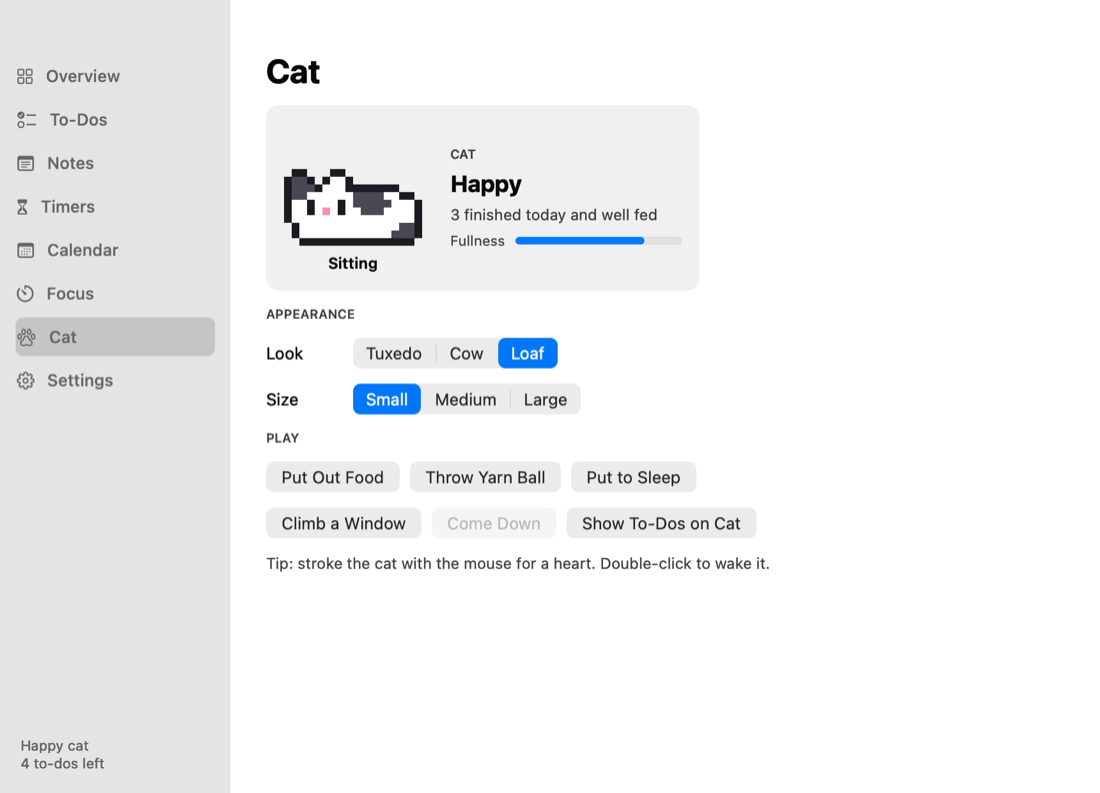
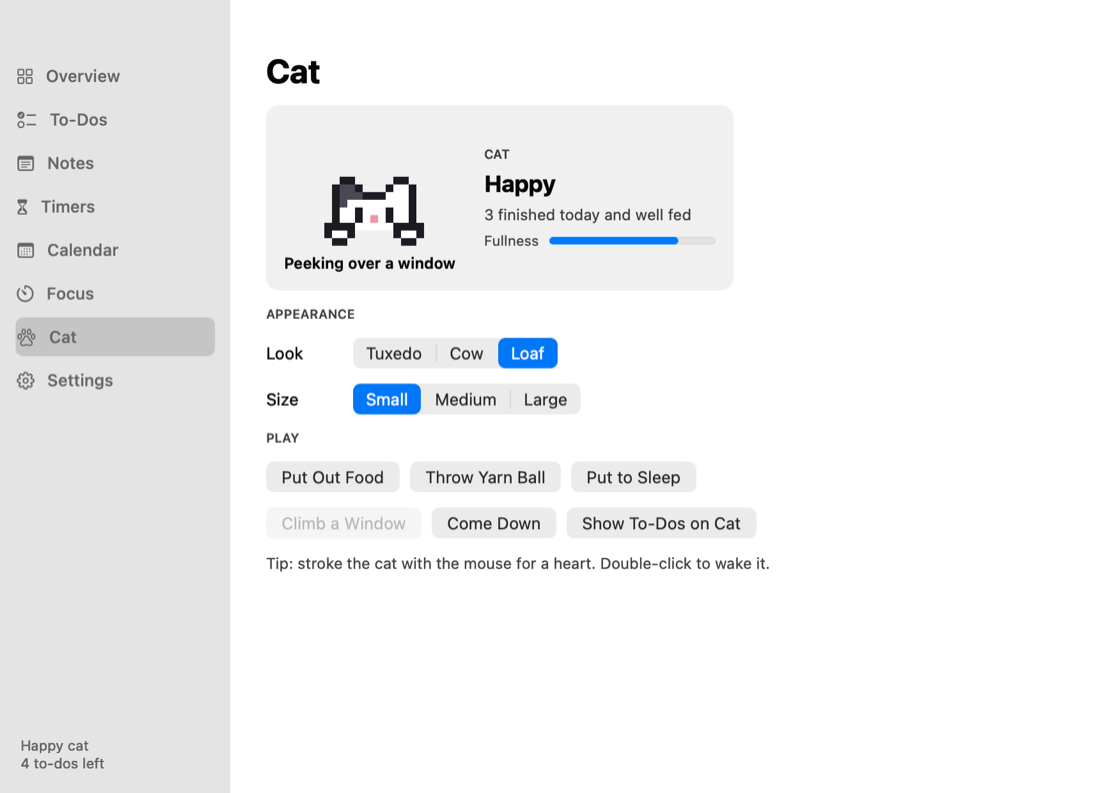
Add a stay-on-windows mode with in-place reminder bubbles
With the setting on, the cat keeps to window tops and never strolls,
chases or comes down by itself. Reminders and timers then show as a
speech bubble where it is, which follows the cat and stays until the
cat is clicked. Speech bubbles drop below the cat when there is no room
above it.

Changed region(s): [[0.2473, 0.1816, 0.6182, 0.3632], [0.2473, 0.6356, 0.3709, 0.6658], [0.4018, 0.6356, 0.4945, 0.6658]]

diff --git a/Sources/PixelCat/main.swift b/Sources/PixelCat/main.swift
@@ -588,6 +588,8 @@ final class QuipView: NSView {
     static let heartPx: CGFloat = 2
     var text = "" { didSet { needsDisplay = true } }
     var showsHeart = false { didSet { needsDisplay = true } }  // A pink heart instead of text
+    var tailOnTop = false { didSet { needsDisplay = true } }   // The bubble sits below the cat, tail pointing up
+    var tailX: CGFloat? { didSet { needsDisplay = true } }     // Where the tail starts; centred when nil
 
     override var isFlipped: Bool { true }
 
@@ -601,19 +603,20 @@ final class QuipView: NSView {
     }
 
     override func draw(_ dirtyRect: NSRect) {
-        let body = NSRect(x: 0, y: 0, width: bounds.width, height: bounds.height - BubbleView.tailH)
-        drawPixelBubble(body: body, tailX: bounds.width / 2 - BubbleView.u * 2, tailOnTop: false)
+        let top = tailOnTop ? BubbleView.tailH : 0
+        let body = NSRect(x: 0, y: top, width: bounds.width, height: bounds.height - BubbleView.tailH)
+        drawPixelBubble(body: body, tailX: tailX ?? bounds.width / 2 - BubbleView.u * 2, tailOnTop: tailOnTop)
         if showsHeart {
             colors["P"]?.setFill()
             for (y, row) in Self.heart.enumerated() {
                 for (x, ch) in row.enumerated() where ch == "P" {
-                    NSRect(x: 9 + CGFloat(x) * Self.heartPx, y: 7 + CGFloat(y) * Self.heartPx,
+                    NSRect(x: 9 + CGFloat(x) * Self.heartPx, y: top + 7 + CGFloat(y) * Self.heartPx,
                            width: Self.heartPx, height: Self.heartPx).fill()
                 }
             }
             return
         }
-        (text as NSString).draw(at: NSPoint(x: 11, y: 5), withAttributes: [.font: Self.font, .foregroundColor: ink])
+        (text as NSString).draw(at: NSPoint(x: 11, y: top + 5), withAttributes: [.font: Self.font, .foregroundColor: ink])
     }
 }
 
@@ -1050,7 +1053,11 @@ final class AppDelegate: NSObject, NSApplicationDelegate {
     var quipPanel: NSPanel!
     var quip: QuipView!
     var quipToken = 0
+    var quipStickyUntil = Date.distantPast
     var quipsOn = false  // The small bubbles where the cat talks to itself
+    // Out-of-the-way mode: the cat lives on top of windows only, and reminders appear as a speech bubble
+    // where it is instead of sending it running to the cursor
+    var stayOnWindows = false
 
     var wanderOn = true
     var motion: Timer?   // Exists only while a walk or jump is in progress
@@ -1099,7 +1106,9 @@ final class AppDelegate: NSObject, NSApplicationDelegate {
     var bodyHeight: CGFloat { CGFloat(catView.design.rows.count) * catView.px }
     // While the paws hook over the edge, lower the panel by that much so they hang below it
     var peekDrop: CGFloat { catView.inPeek ? CGFloat(pawOverhang) * catView.px : 0 }
-    var idle: Bool { motion == nil && !asleep && !playing && !away && !catView.isBusy && !bubblePanel.isVisible }
+    var idle: Bool {
+        motion == nil && !asleep && !playing && !away && !ringing && !catView.isBusy && !bubblePanel.isVisible
+    }
 
     // Away from the floor line, somewhere on screen, because of ball play or a reminder. The current spot must not be saved as the floor
     var away = false
@@ -1202,6 +1211,7 @@ final class AppDelegate: NSObject, NSApplicationDelegate {
 
         wanderOn = d.object(forKey: "wander") == nil || d.bool(forKey: "wander")
         quipsOn = d.bool(forKey: "quips")
+        stayOnWindows = d.bool(forKey: "stayOnWindows")
         if d.object(forKey: "runSpeed") != nil { runSpeed = CGFloat(d.double(forKey: "runSpeed")) }
         if d.object(forKey: "pace") != nil { pace = max(2, d.double(forKey: "pace")) }
         if d.object(forKey: "climbChance") != nil { climbChance = d.integer(forKey: "climbChance") }
@@ -1279,13 +1289,14 @@ final class AppDelegate: NSObject, NSApplicationDelegate {
     }
 
     // `force` shows it even when chatter is off (for things that must be said, like a reminder)
-    func say(_ text: String, force: Bool = false, seconds: Double = 2.4) {
-        guard quipsOn || force else { return }
+    // `keepPose` leaves a cat that is hanging on a window where it is instead of making it sit up to talk
+    func say(_ text: String, force: Bool = false, seconds: Double = 2.4, keepPose: Bool = false) {
+        guard quipsOn || force, Date() >= quipStickyUntil || keepPose else { return }
         if bubblePanel.isVisible {
             guard force else { return }
             bubblePanel.orderOut(nil)
         }
-        sitUpUntil = max(sitUpUntil, Date() + seconds + 0.2)
+        if !keepPose { sitUpUntil = max(sitUpUntil, Date() + seconds + 0.2) }
         quip.showsHeart = false
         quip.text = text
         showQuip(for: seconds)
@@ -1293,25 +1304,39 @@ final class AppDelegate: NSObject, NSApplicationDelegate {
 
     // The heart shown when petted. It appears even when chatter is off
     func showHeart() {
-        guard !asleep, !bubblePanel.isVisible else { return }
+        guard !asleep, !bubblePanel.isVisible, Date() >= quipStickyUntil else { return }
         quip.showsHeart = true
         showQuip(for: 1.6)
     }
 
     func showQuip(for seconds: Double) {
-        let size = quip.neededSize
-        let cat = catPanel.frame
-        quipPanel.setFrame(NSRect(x: cat.midX - size.width / 2, y: cat.minY + bodyHeight + 3,
-                                  width: size.width, height: size.height), display: true)
+        positionQuip()
         quipPanel.orderFrontRegardless()
         quipToken += 1
         let token = quipToken
         DispatchQueue.main.asyncAfter(deadline: .now() + seconds) { [weak self] in
-            if self?.quipToken == token { self?.quipPanel.orderOut(nil) }
+            if self?.quipToken == token { self?.hideQuip(force: true) }
         }
     }
 
-    func hideQuip() {
+    func positionQuip() {
+        let size = quip.neededSize
+        let cat = catPanel.frame
+        let screen = (NSScreen.screens.first { $0.frame.contains(NSPoint(x: cat.midX, y: cat.minY + 1)) }
+            ?? NSScreen.main)?.frame ?? cat
+        // Above the cat when there is room; otherwise (at the top of the screen) below it with the tail pointing up
+        var y = cat.minY + bodyHeight + 3
+        quip.tailOnTop = y + size.height > screen.maxY
+        if quip.tailOnTop { y = cat.minY - size.height - 3 }
+        let x = min(max(cat.midX - size.width / 2, screen.minX + 4), max(screen.minX + 4, screen.maxX - size.width - 4))
+        quip.tailX = min(max(cat.midX - x - BubbleView.u * 2, 8), size.width - 20)
+        quipPanel.setFrame(NSRect(x: x, y: y, width: size.width, height: size.height), display: true)
+    }
+
+    // An announcement made in place stays up until it is dismissed; it is moved along with the cat instead of hidden
+    func hideQuip(force: Bool = false) {
+        if !force && Date() < quipStickyUntil { return }
+        quipStickyUntil = .distantPast
         quipToken += 1
         quipPanel.orderOut(nil)
     }
@@ -1346,6 +1371,7 @@ final class AppDelegate: NSObject, NSApplicationDelegate {
     func moveCat(to origin: NSPoint) {
         guard origin != catPanel.frame.origin else { return }
         catPanel.setFrameOrigin(origin)
+        if quipPanel.isVisible && Date() < quipStickyUntil { positionQuip() }
         if bubblePanel.isVisible { layoutBubble() }
     }
 
@@ -1362,7 +1388,7 @@ final class AppDelegate: NSObject, NSApplicationDelegate {
         let wins = visibleWindows()
         guard let i = wins.firstIndex(where: { $0.id == p.id }) else {
             log("perch window gone")
-            dropToFloor()
+            leavePerch()
             return
         }
         let f = wins[i].frame
@@ -1384,7 +1410,7 @@ final class AppDelegate: NSObject, NSApplicationDelegate {
         let onScreen = NSScreen.screens.contains { $0.frame.contains(NSPoint(x: foot.x, y: f.maxY + bodyHeight - 1)) }
         if !onScreen || wins[..<i].contains(where: { $0.frame.contains(foot) }) {
             log("perch covered or off screen")
-            dropToFloor()
+            leavePerch()
             return
         }
         if let offset = bowlPerchOffset, bowlPanel.isVisible, !bowlHeld {
@@ -1507,6 +1533,12 @@ final class AppDelegate: NSObject, NSApplicationDelegate {
         }
         RunLoop.main.add(t, forMode: .common)
         motion = t
+    }
+
+    // The window being sat on is no longer usable. In stay-on-windows mode move to another window if there is one
+    func leavePerch() {
+        if stayOnWindows && hopOntoWindow(frontOnly: false) { return }
+        dropToFloor()
     }
 
     func dropToFloor(then done: (() -> Void)? = nil) {
@@ -1965,7 +1997,7 @@ final class AppDelegate: NSObject, NSApplicationDelegate {
     }
 
     func watchMouse() {
-        guard wanderOn, idle, perch == nil, !hasFood, Date() > lastFollow + 8 else { return }
+        guard wanderOn, !stayOnWindows, idle, perch == nil, !hasFood, Date() > lastFollow + 8 else { return }
         let cat = catPanel.frame
         let mouse = NSEvent.mouseLocation
         let dist = hypot(mouse.x - cat.midX, mouse.y - (cat.minY + bodyHeight / 2))
@@ -2005,7 +2037,16 @@ final class AppDelegate: NSObject, NSApplicationDelegate {
             return
         }
         let roll = Int.random(in: 0..<100)
-        if perch != nil {
+        if stayOnWindows {
+            // Get onto a window and stay there: no strolling, chasing or coming down. With no window to sit on, wait
+            if perch == nil {
+                hopOntoWindow(frontOnly: false)
+            } else if Int.random(in: 0..<100) < sleepChance / 2 {
+                fallAsleep()
+            } else if roll >= 92 {
+                hopOntoWindow(frontOnly: false)
+            }
+        } else if perch != nil {
             // On a window, almost always hang and peek; move only now and then
             if Int.random(in: 0..<100) < sleepChance / 2 {
                 fallAsleep()
@@ -2066,6 +2107,9 @@ final class AppDelegate: NSObject, NSApplicationDelegate {
         menu.addItem(withTitle: ballPanel.isVisible ? "Put Away Yarn Ball" : "Throw Yarn Ball",
                      action: #selector(toggleBall), keyEquivalent: "").target = self
         menu.addItem(withTitle: asleep ? "Wake Up" : "Put to Sleep", action: #selector(toggleSleep), keyEquivalent: "").target = self
+        let stay = menu.addItem(withTitle: "Stay on Windows", action: #selector(toggleStayOnWindows), keyEquivalent: "")
+        stay.target = self
+        stay.state = stayOnWindows ? .on : .off
         let wander = menu.addItem(withTitle: "Wander Around", action: #selector(toggleWander), keyEquivalent: "")
         wander.target = self
         wander.state = wanderOn ? .on : .off
@@ -2190,6 +2234,13 @@ final class AppDelegate: NSObject, NSApplicationDelegate {
     @objc func comeDown() {
         guard perch != nil, !catView.pressed else { return }
         dropToFloor()
+    }
+
+    @objc func toggleStayOnWindows() {
+        stayOnWindows.toggle()
+        UserDefaults.standard.set(stayOnWindows, forKey: "stayOnWindows")
+        if stayOnWindows && perch == nil && idle { hopOntoWindow(frontOnly: false) }
+        hub.refresh()
     }
 
     @objc func checkForUpdates() { updater.check(userInitiated: true) }
@@ -2325,6 +2376,11 @@ final class AppDelegate: NSObject, NSApplicationDelegate {
         log("announce: \(text)")
         NSSound(named: "Glass")?.play()
         wake()
+        if stayOnWindows {  // Say it from where the cat is, without leaving its window
+            quipStickyUntil = Date() + hold
+            say(text, force: true, seconds: hold, keepPose: true)
+            return
+        }
         if playing { stopPlay() }
         if catView.inPeek {
             catPanel.setFrameOrigin(NSPoint(x: catPanel.frame.minX, y: catPanel.frame.minY + peekDrop))
@@ -2413,7 +2469,7 @@ final class AppDelegate: NSObject, NSApplicationDelegate {
         ringToken += 1
         ringTimer?.invalidate()
         ringTimer = nil
-        hideQuip()
+        hideQuip(force: true)
         awayUntil = .distantPast
         if returnHome && away && !playing && !catView.pressed {
             cancelMotion()

diff --git a/Sources/PixelCat/Hub.swift b/Sources/PixelCat/Hub.swift
@@ -598,6 +598,9 @@ final class Hub: NSObject, NSWindowDelegate, NSTableViewDataSource, NSTableViewD
             hstack([button("Check Now", #selector(AppDelegate.checkForUpdates)),
                     keyed("st.version", label("", size: 12, color: .secondaryLabelColor))]),
             caption("Behavior"),
+            keyed("st.stay", check("Stay on top of windows, out of the way", #selector(AppDelegate.toggleStayOnWindows))),
+            label("The cat keeps off the rest of the screen, and reminders show as a speech bubble instead of it running to you.",
+                  size: 11, color: .secondaryLabelColor),
             keyed("st.wander", check("Wander around", #selector(AppDelegate.toggleWander))),
             keyed("st.quips", check("Cat chatter", #selector(AppDelegate.toggleQuips))),
             slider("runSpeed", "Run speed", 1.5...7, "slow", "fast"),
@@ -740,6 +743,7 @@ final class Hub: NSObject, NSWindowDelegate, NSTableViewDataSource, NSTableViewD
 
         // Settings
         (controls["st.wander"] as? NSButton)?.state = app.wanderOn ? .on : .off
+        (controls["st.stay"] as? NSButton)?.state = app.stayOnWindows ? .on : .off
         (controls["st.quips"] as? NSButton)?.state = app.quipsOn ? .on : .off
         (controls["st.feed"] as? NSButton)?.state = app.feedOnDone ? .on : .off
         (controls["st.autoUpdate"] as? NSButton)?.state = app.updater.automatic ? .on : .off

diff --git a/README.md b/README.md
@@ -24,6 +24,7 @@ It sits above every window and has a life of its own.
 - **Eats** when you put out food, and **chases a yarn ball** all over the screen. You can grab the ball and fling it.
 - **Likes being petted.** Stroke it with the mouse for a heart.
 - **Comes to get you.** When a reminder or timer goes off, it runs to your cursor and rings until you click it.
+- **Or stays out of the way.** Turn on *Stay on top of windows* and it keeps to window tops, announcing reminders with a speech bubble instead.
 
 <p align="center">
   <img src="docs/screenshots/run-sheet.png" width="640" alt="Running frames">
@@ -118,7 +119,7 @@ How much is done, your streak, the last 7 days, the cat's mood, and what is comi
 </details>
 
 <details>
-<summary><b>Settings</b> · Launch at login and sliders for how busy, sleepy, and clingy the cat is.</summary>
+<summary><b>Settings</b> · Launch at login, updates, an out-of-the-way mode, and sliders for how busy, sleepy, and clingy the cat is.</summary>
 <br>
 
 | Light | Dark |

diff --git a/CHANGELOG.md b/CHANGELOG.md
@@ -1,5 +1,10 @@
 # Changelog
 
+## Unreleased
+
+- **Stay on top of windows.** A setting that keeps the cat on window tops and off the rest of the screen. Reminders and timers then show as a speech bubble where the cat is instead of sending it running to your cursor.
+- Speech bubbles appear below the cat when it sits at the very top of the screen.
+
 ## 2.1.0
 
 - **Updates.** The app checks GitHub once a day for a newer version and can install it and relaunch. Use "Check for Updates…" in the menu bar paw menu, or turn the automatic check off in Settings.
